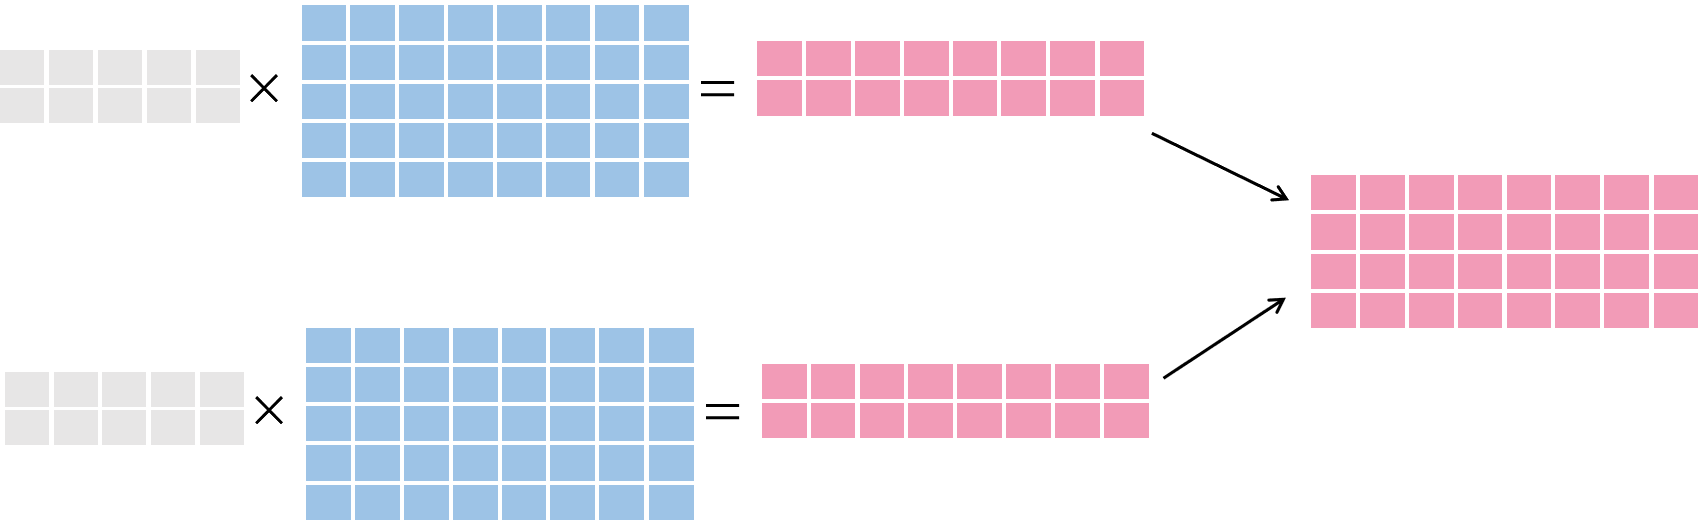
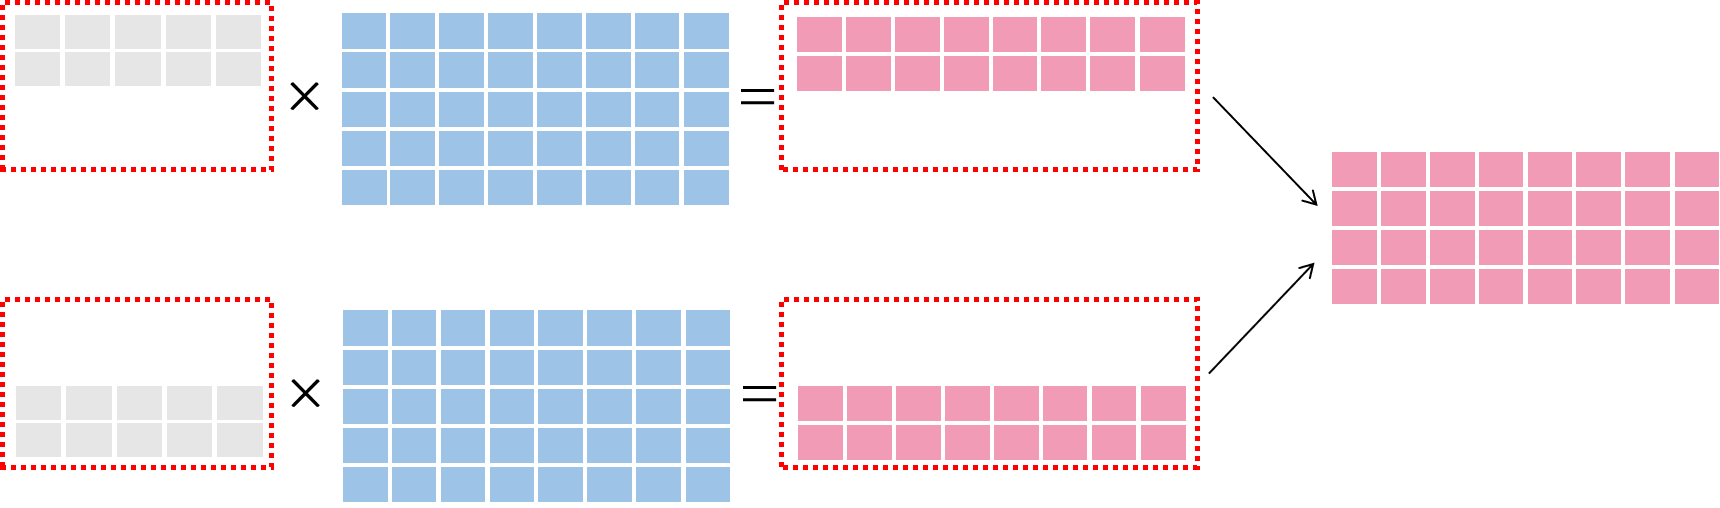
updates images of data/model parallelism

diff --git a/docs/extended_topics/consistent_mirrored.md b/docs/extended_topics/consistent_mirrored.md
@@ -36,7 +36,7 @@
 
 等式左边第1个灰色的矩阵代表输入样本，每一行是一个样本；等式左边第2个蓝色的矩阵代表模型。
 
-在后文中，我们将看到以上的op，在数据并行与模型并行下，不同的“切割”方式。
+在后文中，我们将看到以上的op，在数据并行与模型并行下，不同的“切分”方式。
 
 
 ### 数据并行图示
